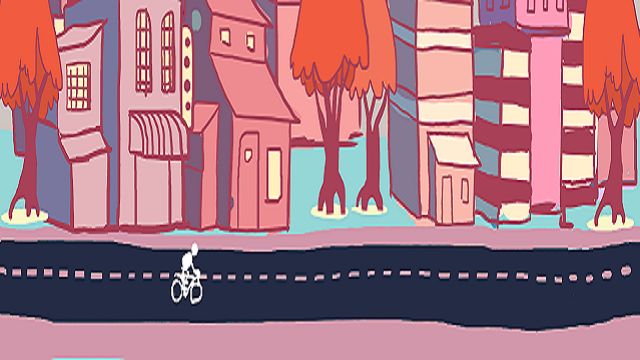
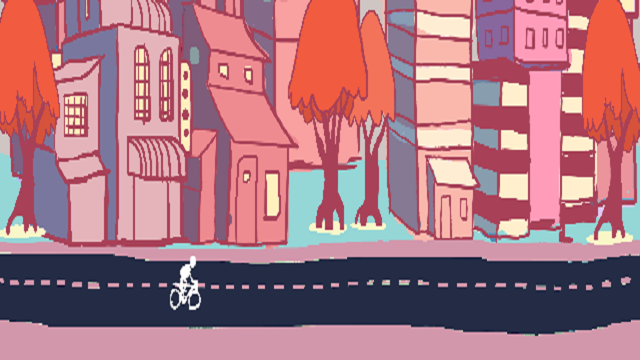
AddedUp Down Ramp

diff --git a/main.js b/main.js
@@ -9,10 +9,12 @@ var road;
 var background_speed = 2;
 var bike_y_speed = 100;
 var bike_x_speed = 100;
-var TopTrack = 180;
+var TopTrack = 220;
 var BottomTrack = 360;
 var onRoad = true;
-
+var upramp;
+var ramp_speed = -80;
+var downramp;
 var highline;
 
 //var hazards;
@@ -36,13 +38,13 @@ var mainState = {
         game.load.image('background', 'assets/ghost_bike_street_level.png');
 
         //load the up ramp
-        //game.load.image('upRamp', 'assest/upRamp.png');
+        game.load.image('upRamp', 'assets/up_ramp.png');
 
         //load the down ramp
-        //game.load.image('downRamp', 'assets/downRamp.png');
+        game.load.image('downRamp', 'assets/down_ramp.png');
 
         //load the highline track
-        game.load.image('highline', 'assets/highline.png');        
+        game.load.image('highline', 'assets/hi_line.png');        
         
     },
 
@@ -55,11 +57,24 @@ var mainState = {
         
         //add a tile sprite to control the background
         road = game.add.tileSprite(0, 0, 640, 360, 'background');
-        highline = game.add.tileSprite(0, 0, 640, 180, 'highline');
-         
-         // Display the bike on the screen
-        this.bike = this.game.add.sprite(100, (TopTrack+TopTrack/2), 'bike');
+        highline = game.add.tileSprite(0, 0, 640, 240, 'highline');
         
+
+        //upramp creation
+
+        upramp = game.add.sprite(game.world.width, 140, 'upRamp');
+        game.physics.enable(upramp, Phaser.Physics.ARCADE);
+
+        //downramp creation
+        downramp = game.add.sprite(game.world.width, 160, 'downRamp');
+        game.physics.enable(downramp, Phaser.Physics.ARCADE);
+
+
+        //downramp creation 
+         // Display the bike on the screen
+        this.bike = this.game.add.sprite(100, TopTrack, 'bike');
+        
+
 
 
         // Add gravity to the bike to make it fall
@@ -73,8 +88,9 @@ var mainState = {
         //this.hazards.enableBody = true;
         //this.hazards.createMultiple(20, 'hazard');  
 
+        this.addRamps();
         // Timer that calls 'addRowOfPipes' ever 1.5 seconds
-        //this.timer = this.game.time.events.loop(1500, this.addRowOfPipes, this);           
+        this.timer = this.game.time.events.loop(12000, this.addRamps, this);           
 
         // Add a score label on the top left of the screen
         //this.score = 0;
@@ -88,10 +104,11 @@ var mainState = {
 
         //console.log("Player x y" + this.bike.body.position.x + " " + this.bike.body.position.y);
 
-        //Check which track the player is on and update parameters accordingly
-        this.updateTracks();
+        
         //Move the bike with the cursors
         this.moveBike();
+
+        
         
         
         //  Scroll the background
@@ -102,20 +119,33 @@ var mainState = {
         //game.physics.arcade.overlap(this.bike, this.hazards, hazardCollisionHandler, null, this);      
         
         // If the bike overlap any hazards, call collisionHandler
-        //game.physics.arcade.overlap(this.bike, this.ramp, rampCollisionHandler, null, this);      
-    
+        if(onRoad){
+            game.physics.arcade.overlap(this.bike, upramp, this.rampCollisionHandler, null, this);      
+        }   
+        else{
+            game.physics.arcade.overlap(this.bike, downramp, this.rampCollisionHandler, null, this);
+        }
     },
 
     //Set the boundaries for whatever track the player is on
     updateTracks: function(){
         if(onRoad){
-            TopTrack = 200;
+            TopTrack = 220;
             BottomTrack = 280;
         }
         else{
-            TopTrack = 100;
-            BottomTrack = 200;
+            TopTrack = 60;
+            BottomTrack = 120;
         }
+    },
+
+    //adds up and down ramps as time passes
+    addRamps: function(){
+        upramp.position.x = game.world.width;
+        upramp.body.velocity.x = ramp_speed;
+
+        downramp.position.x=game.world.width+360;
+        downramp.body.velocity.x= ramp_speed;
     },
 
 
@@ -175,6 +205,10 @@ var mainState = {
     },
 
     rampCollisionHandler: function(){
+        onRoad = !onRoad;
+        this.updateTracks();
+        this.bike.body.position.y = (BottomTrack);
+        this.bike.body.position.x += 100;
         
 
     },
